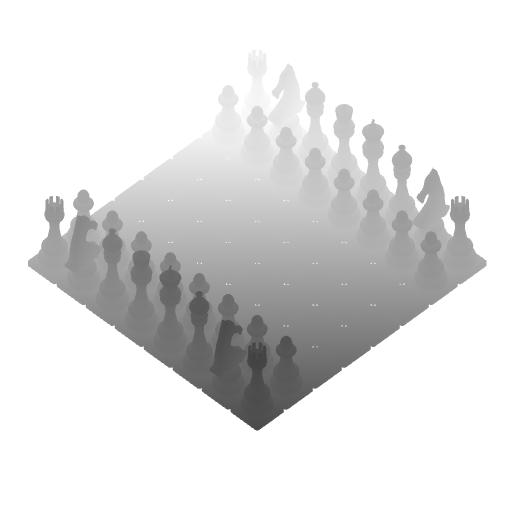
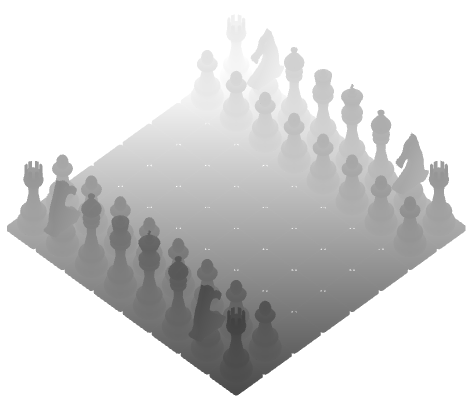
Crop images

diff --git a/README.md b/README.md
@@ -49,7 +49,7 @@ I also wanted to display black borders for chess pieces. In order to explain how
 ### Shadow Mapping
 For the shadows I used the well-known Shadow Mapping technique. A separate render is performed using a Render To Texture technique, texture in which the distance from the light is saved for each mesh (See next picture, the nearest from the light the mesh is, the darkest it is in the shadowmap). And this distance from the light can be used in the main rendering process in order to know if the currently rendered part of the mesh is hidden from the light by an other object. See [this](http://www.opengl-tutorial.org/intermediate-tutorials/tutorial-16-shadow-mapping/) tutorial if you want to learn more about it. I then used the Percentage Close Filtering technique in order to make the shadows smoother (See this [nvidia article](http://developer.download.nvidia.com/books/HTML/gpugems/gpugems_ch11.html) about PCF).
 
-<p align="center"><img width="512" src="images/ShadowMapping.png"></p>
+<p align="center"><img width="700" src="images/ShadowMapping.png"></p>
 
 ### Color Picking
 Concerning mesh picking, I used a Color Picking technique. When a click event occurs, an other render is performed using a RTT technique, in which meshes are colored according to their positions on the grid (See next picture). The color on the clicked position of the screen is then extracted in order to know which piece on the grid has been selected. This technique is never used in video games, but it perfectly fits my needs for this project. Performance are ok because the RTT is performed only when a click event occurs.
